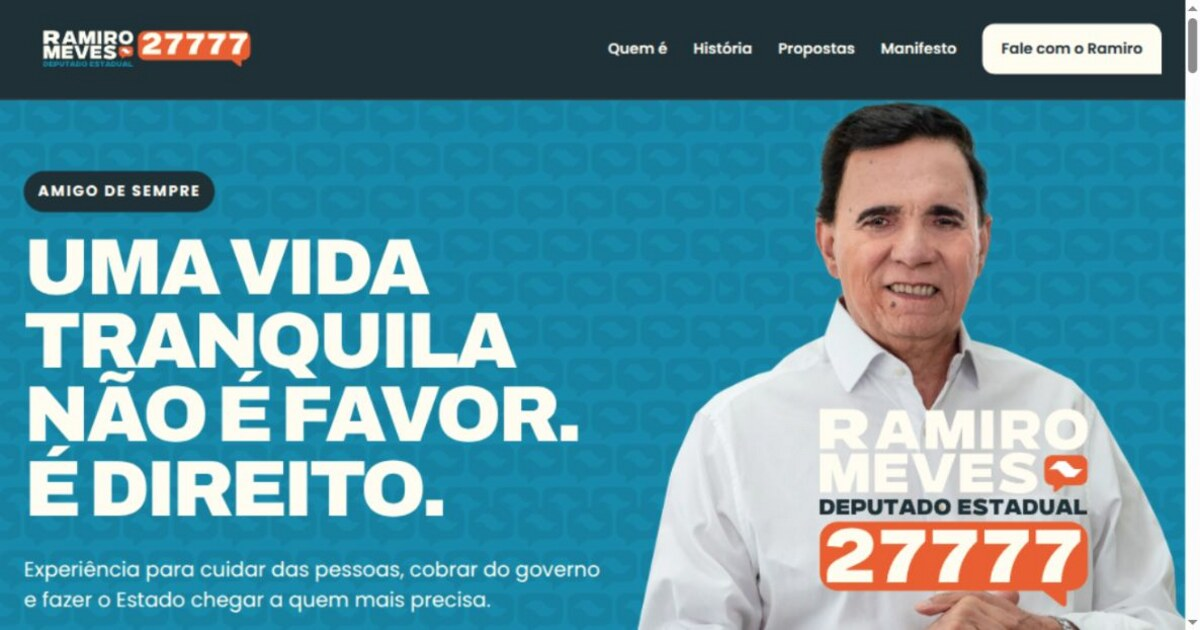
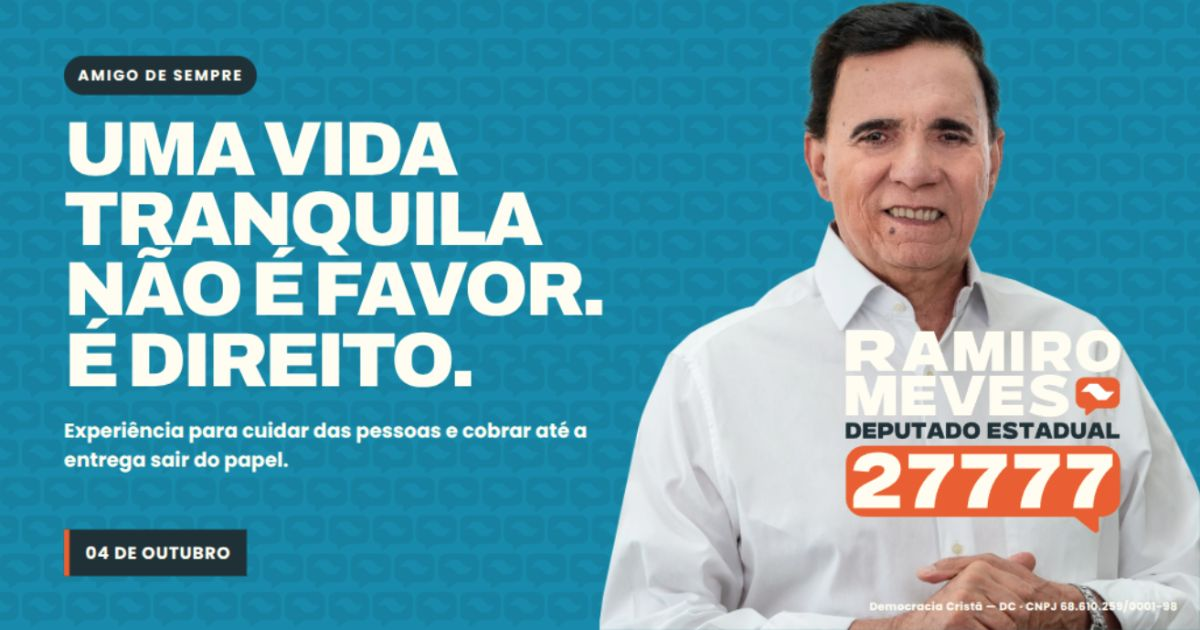
Configura prévias sociais com Open Graph

diff --git a/assets/social/og-card.html b/assets/social/og-card.html
@@ -1,0 +1,153 @@
+<!DOCTYPE html>
+<html lang="pt-BR">
+<head>
+  <meta charset="UTF-8">
+  <meta name="viewport" content="width=1200, initial-scale=1">
+  <meta name="robots" content="noindex, nofollow">
+  <title>Capa social — Ramiro Meves 27777</title>
+  <style>
+    @font-face {
+      font-family: 'Archivo';
+      src: url('../fonts/archivo-800-900-latin.woff2') format('woff2');
+      font-weight: 800 900;
+      font-style: normal;
+    }
+
+    @font-face {
+      font-family: 'Poppins';
+      src: url('../fonts/poppins-700-latin.woff2') format('woff2');
+      font-weight: 700;
+      font-style: normal;
+    }
+
+    * { box-sizing: border-box; }
+
+    html,
+    body {
+      width: 1200px;
+      height: 630px;
+      margin: 0;
+      overflow: hidden;
+    }
+
+    body {
+      color: #FFFDF1;
+      background: #0788AF;
+      font-family: 'Poppins', sans-serif;
+    }
+
+    .card {
+      position: relative;
+      width: 1200px;
+      height: 630px;
+      overflow: hidden;
+      background: #0788AF;
+      isolation: isolate;
+    }
+
+    .card::before {
+      content: '';
+      position: absolute;
+      inset: 0;
+      z-index: -2;
+      background-image: url('../images/padrao-baloes.svg');
+      background-size: 640px auto;
+      filter: brightness(.8);
+      opacity: .34;
+    }
+
+    .copy {
+      position: absolute;
+      z-index: 3;
+      top: 56px;
+      left: 64px;
+      width: 650px;
+    }
+
+    .kicker {
+      width: fit-content;
+      margin: 0 0 20px;
+      padding: 8px 14px;
+      background: #1E3038;
+      border-radius: 999px;
+      font-size: 15px;
+      letter-spacing: .13em;
+      text-transform: uppercase;
+    }
+
+    h1 {
+      max-width: 650px;
+      margin: 0;
+      font-family: 'Archivo', sans-serif;
+      font-size: 77px;
+      font-weight: 900;
+      letter-spacing: -.045em;
+      line-height: .91;
+      text-transform: uppercase;
+    }
+
+    .lede {
+      max-width: 575px;
+      margin: 22px 0 0;
+      font-size: 20px;
+      line-height: 1.42;
+    }
+
+    .date {
+      position: absolute;
+      z-index: 4;
+      bottom: 54px;
+      left: 64px;
+      margin: 0;
+      padding: 10px 16px;
+      background: #1E3038;
+      border-left: 6px solid #EC671C;
+      font-size: 17px;
+      letter-spacing: .05em;
+      text-transform: uppercase;
+    }
+
+    .photo {
+      position: absolute;
+      z-index: 1;
+      right: -40px;
+      bottom: -265px;
+      width: 640px;
+      max-width: none;
+    }
+
+    .lockup {
+      position: absolute;
+      z-index: 4;
+      right: 22px;
+      bottom: 42px;
+      width: 390px;
+    }
+
+    .legal {
+      position: absolute;
+      z-index: 5;
+      right: 22px;
+      bottom: 14px;
+      margin: 0;
+      color: #FFFDF1;
+      font-size: 11px;
+      letter-spacing: .04em;
+    }
+  </style>
+</head>
+<body>
+  <main class="card" aria-label="Capa social da campanha de Ramiro Meves">
+    <div class="copy">
+      <p class="kicker">Amigo de sempre</p>
+      <h1>Uma vida<br>tranquila<br>não é favor.<br>É direito.</h1>
+      <p class="lede">Experiência para cuidar das pessoas e cobrar até a entrega sair do papel.</p>
+    </div>
+
+    <p class="date">04 de outubro</p>
+    <img class="photo" src="../images/ramiro-recorte-1200.webp" alt="">
+    <img class="lockup" src="../icons/logo-vertical-02.svg" alt="Ramiro Meves, Deputado Estadual, 27777">
+    <p class="legal">Democracia Cristã — DC · CNPJ 68.610.259/0001-98</p>
+  </main>
+</body>
+</html>

diff --git a/index.html b/index.html
@@ -1,23 +1,36 @@
 <!DOCTYPE html>
-<html lang="pt-BR">
+<html lang="pt-BR" prefix="og: https://ogp.me/ns#">
 <head>
   <meta charset="UTF-8">
   <meta name="viewport" content="width=device-width, initial-scale=1, viewport-fit=cover">
   <meta name="theme-color" content="#1E3038">
 
   <title>Ramiro Meves 27777 | Deputado Estadual por São Paulo</title>
-  <meta name="description" content="Conheça Ramiro Meves, candidato a Deputado Estadual por São Paulo, número 27777. Experiência para cuidar das pessoas e cobrar do governo.">
+  <meta name="description" content="Uma vida tranquila não é favor. É direito. Conheça a trajetória e as propostas de Ramiro Meves para São Paulo.">
+  <meta name="author" content="Ramiro Meves">
   <meta name="robots" content="index, follow">
+
+  <link rel="canonical" href="https://www.ramiromeves.com.br/">
+
   <meta property="og:type" content="website">
   <meta property="og:locale" content="pt_BR">
-  <meta property="og:title" content="Ramiro Meves 27777 | Deputado Estadual">
-  <meta property="og:description" content="Uma vida tranquila não é favor. É direito.">
+  <meta property="og:site_name" content="Ramiro Meves 27777">
+  <meta property="og:title" content="Ramiro Meves 27777 | Deputado Estadual por São Paulo">
+  <meta property="og:description" content="Uma vida tranquila não é favor. É direito. Conheça a trajetória e as propostas de Ramiro Meves para São Paulo.">
   <meta property="og:url" content="https://www.ramiromeves.com.br/">
   <meta property="og:image" content="https://www.ramiromeves.com.br/assets/images/og-ramiro-27777.jpg">
+  <meta property="og:image:secure_url" content="https://www.ramiromeves.com.br/assets/images/og-ramiro-27777.jpg">
+  <meta property="og:image:type" content="image/jpeg">
   <meta property="og:image:width" content="1200">
   <meta property="og:image:height" content="630">
-  <meta property="og:image:alt" content="Ramiro Meves 27777 — Uma vida tranquila não é favor. É direito.">
+  <meta property="og:image:alt" content="Ramiro Meves ao lado do slogan Uma vida tranquila não é favor. É direito e do número 27777.">
+
   <meta name="twitter:card" content="summary_large_image">
+  <meta name="twitter:title" content="Ramiro Meves 27777 | Deputado Estadual por São Paulo">
+  <meta name="twitter:description" content="Uma vida tranquila não é favor. É direito. Conheça a trajetória e as propostas de Ramiro Meves para São Paulo.">
+  <meta name="twitter:url" content="https://www.ramiromeves.com.br/">
+  <meta name="twitter:image" content="https://www.ramiromeves.com.br/assets/images/og-ramiro-27777.jpg">
+  <meta name="twitter:image:alt" content="Ramiro Meves ao lado do slogan Uma vida tranquila não é favor. É direito e do número 27777.">
 
   <link rel="icon" href="favicon.ico" sizes="any">
   <link rel="stylesheet" href="style.css">

diff --git a/docs/DEPLOY.md b/docs/DEPLOY.md
@@ -20,3 +20,12 @@
 ## Observação
 
 A branch `main` não possuía proteção no GitHub em 27/08/2026. Ativar proteção é recomendável, mas deve ser combinado com a equipe para não interromper o processo atual de publicação.
+
+## Prévia em redes sociais
+
+- A página usa Open Graph para Facebook, WhatsApp, LinkedIn e outros serviços compatíveis.
+- O X recebe uma `summary_large_image` pelas Twitter Cards.
+- A capa oficial fica em `assets/images/og-ramiro-27777.jpg`, no formato JPEG 1200 × 630.
+- O arquivo `assets/social/og-card.html` é a fonte visual usada para regenerar a capa; ele está marcado como `noindex`.
+- As URLs das tags apontam para `https://www.ramiromeves.com.br/`. Após a publicação, confirmar que a página e a imagem abrem publicamente por HTTPS.
+- Facebook e WhatsApp mantêm cache da prévia. Depois de publicar uma nova capa ou texto, solicitar uma nova leitura no Sharing Debugger do Facebook antes de testar novamente no WhatsApp.
